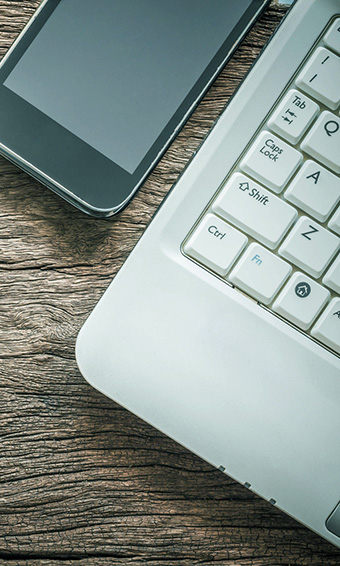
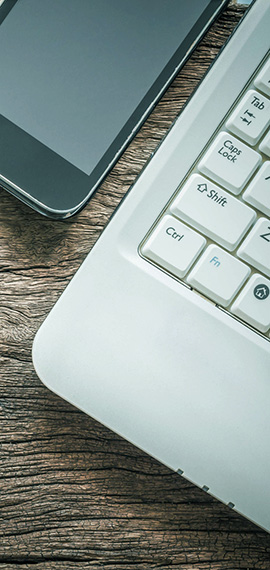
edits

diff --git a/app/landing-pages/e-app.html b/app/landing-pages/e-app.html
@@ -61,7 +61,7 @@
   <!-- endbuild -->
   <!-- Document Title
   ============================================= -->
-  <title>Life Insurance Awareness Month | Fidelity &amp; Guaranty Life</title>
+  <title>FGL e-App | Fidelity &amp; Guaranty Life</title>
 
 <!-- Siteimprove Code
     ============================================= -->
@@ -291,13 +291,12 @@ var s = document.getElementsByTagName('script')[0]; s.parentNode.insertBefore(sz
 
   <div class="col_two_fifth col_last">
           <br>
-          <img src="../images/landing-pages/e-App.jpg.jpg" alt="e-App">
+          <img src="../images/landing-pages/e-App.jpg" alt="e-App">
 
         </div>
 
       <div class="col_full">
-        <p><small><sup>1</sup></small></p>
-        <p><small></small></p>
+
 
         <p><small>"FGL” when used herein refers to Fidelity & Guaranty Life, the marketing name for Fidelity & Guaranty Life Insurance Company issuing insurance in the United States outside of New York. Annuities and life insurance issued by Fidelity & Guaranty Life Insurance Company, Des Moines, IA.</small></p></div>
  <div class="line bottommargin-md"></div>
